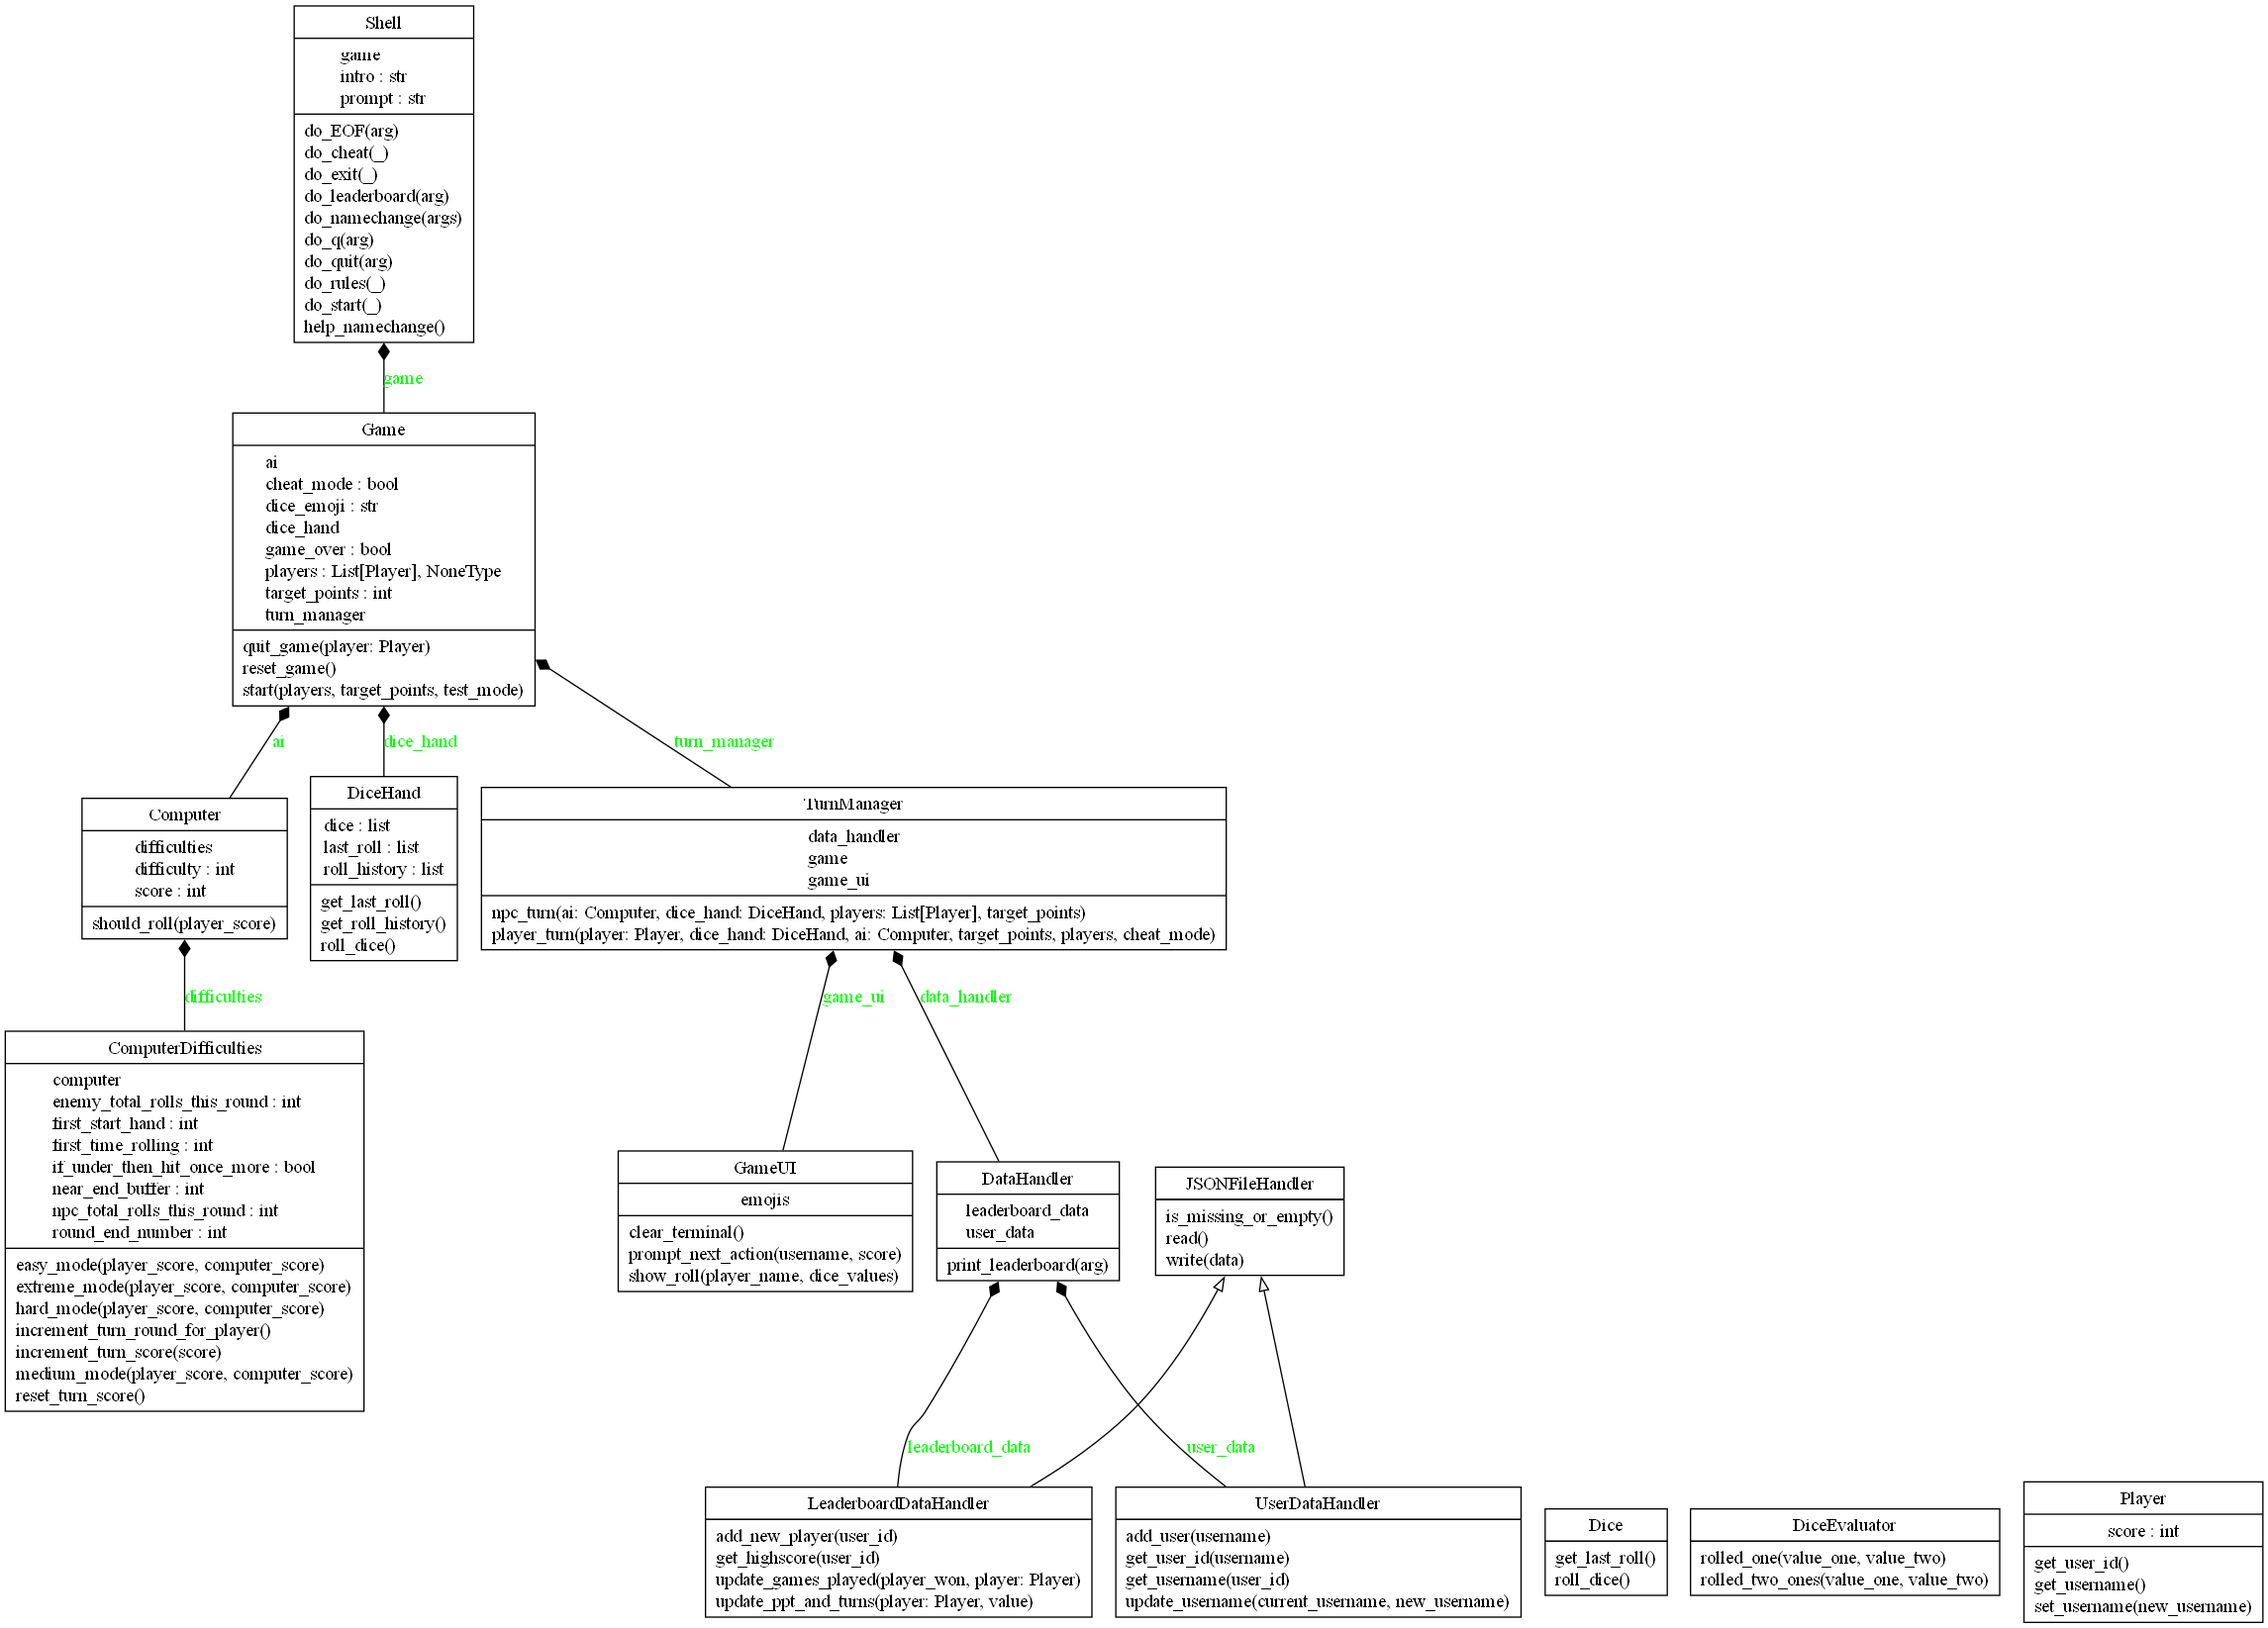
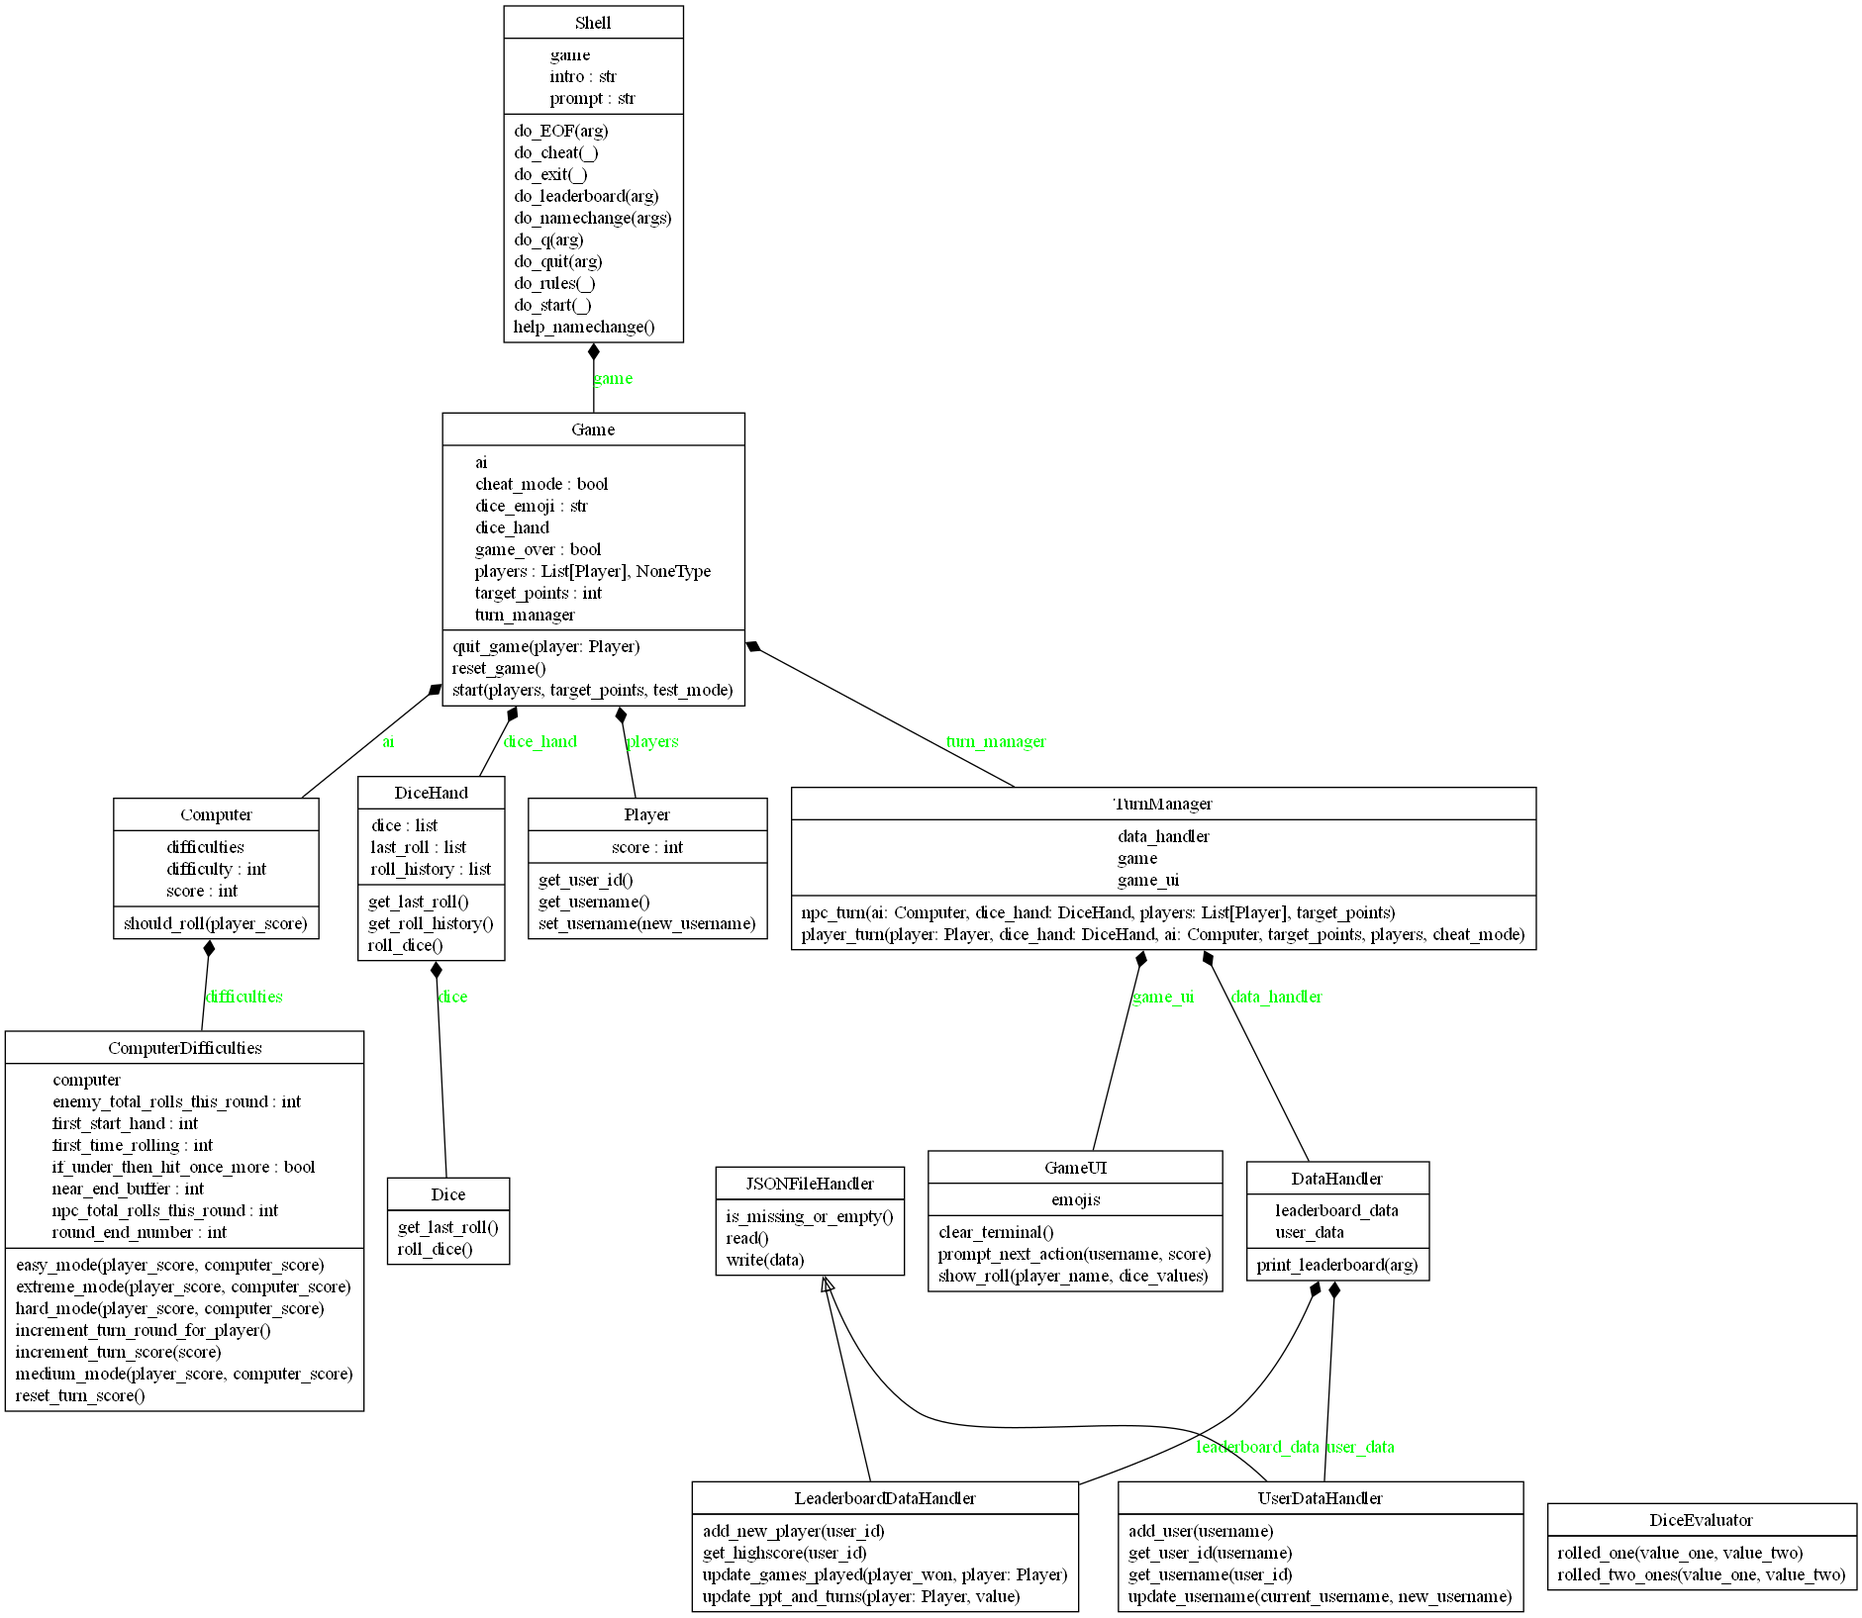
Fixed pyreverse not recognizing class connections

diff --git a/pig_game/game/game.py b/pig_game/game/game.py
@@ -26,6 +26,9 @@ class Game:
         """
         self.ai: Computer = Computer()
 
+        self.players = Player(
+            "", 0
+        )  # Purpose of this line, pyreverse connection to class.
         self.players: List[Player] = []
         self.dice_hand = DiceHand()
         self.turn_manager = TurnManager(dir_path, self.dice_emoji, self)

diff --git a/pig_game/game/dice_hand.py b/pig_game/game/dice_hand.py
@@ -11,6 +11,7 @@ class DiceHand:
 
     def __init__(self):
         """Initialize the dice hand object."""
+        self.dice = Dice()  # Purpose of this line, pyreverse connection to class.
         self.dice = [Dice(), Dice()]
         self.roll_history = []
         self.last_roll = []
